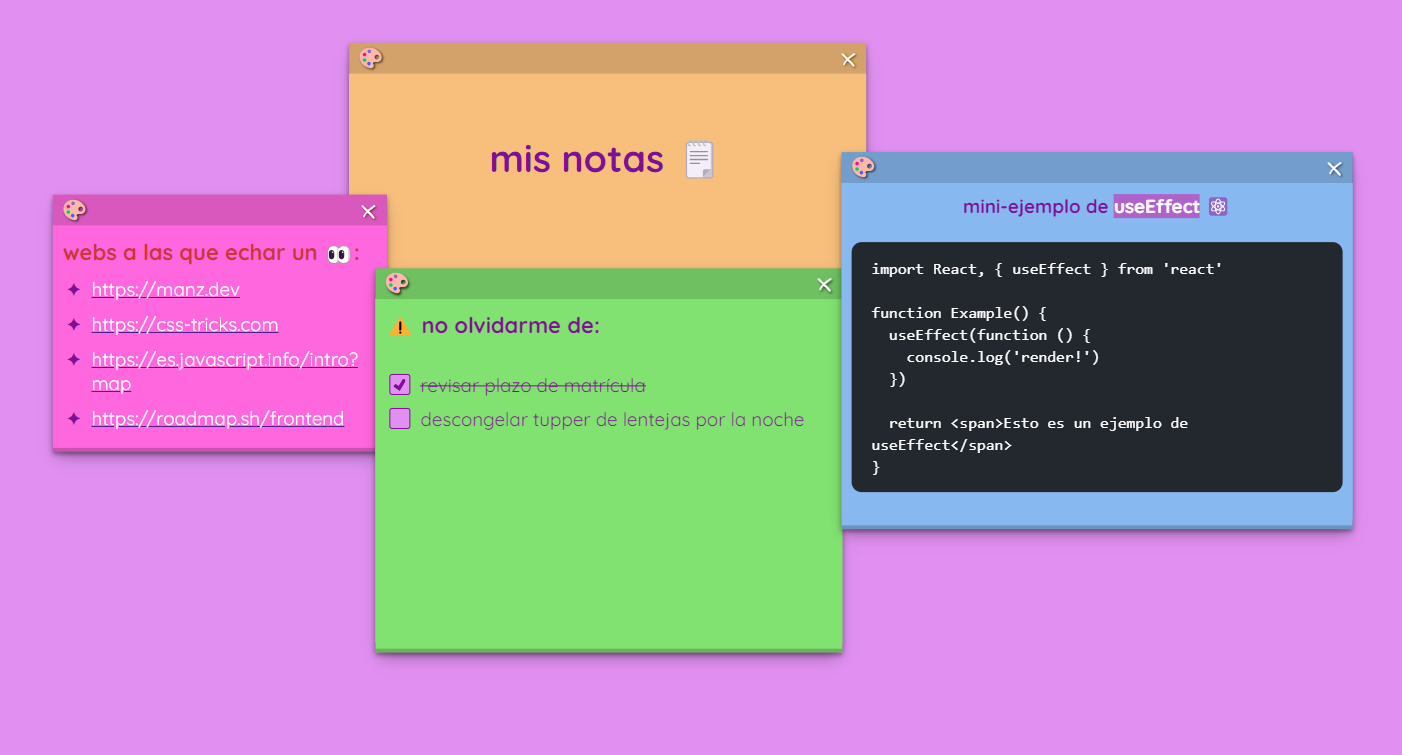
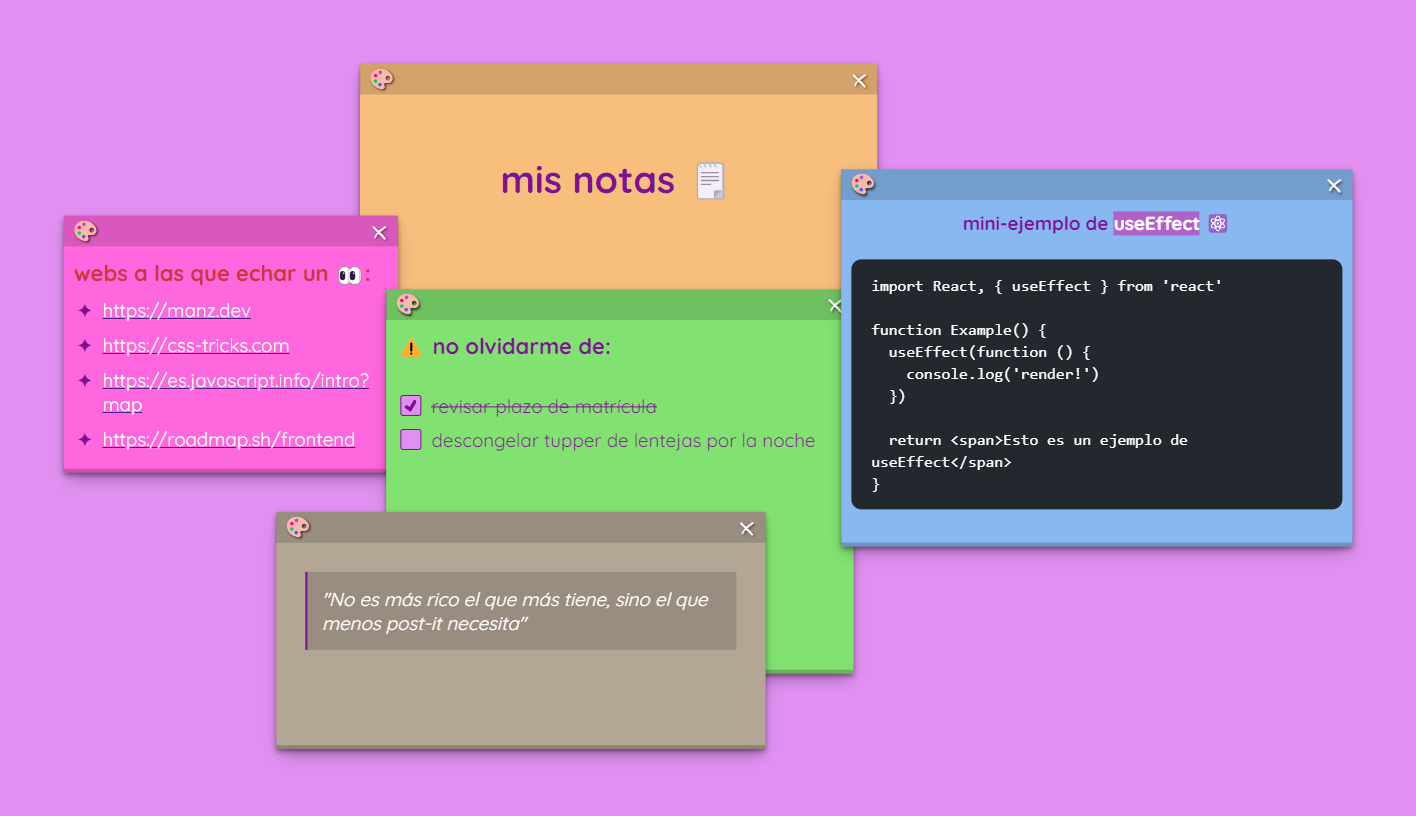
Se retoca el modal y se añade el README.md

Changed region(s): [[0.0307, 0.0305, 0.9815, 0.9444], [0.3374, 0.1828, 0.5214, 0.2437]]

diff --git a/components/TextAreaEditor.jsx b/components/TextAreaEditor.jsx
@@ -3,6 +3,8 @@ import Image from "next/image"
 import { BubbleMenu, useEditor, EditorContent } from "@tiptap/react"
 import { Color } from "@tiptap/extension-color"
 import StarterKit from "@tiptap/starter-kit"
+import Blockquote from "@tiptap/extension-blockquote"
+import BulletList from "@tiptap/extension-bullet-list"
 import Highlight from "@tiptap/extension-highlight"
 import TextStyle from "@tiptap/extension-text-style"
 import TextAlign from "@tiptap/extension-text-align"
@@ -19,15 +21,36 @@ export default function TextAreaEditor ({ notaId, placeholder }) {
   const widthBubbleIcon = 20;
   const heightBubbleIcon = 20;
 
+  const CustomBulletList = BulletList.extend({
+    addKeyboardShortcuts() {
+      return {
+        "Tab": () => {
+          this.editor.chain()
+            .sinkListItem('listItem')
+            .command(({ tr }) => {
+              tr.insertText('  ')
+    
+              return true
+             })
+            .run()
+    
+          return true // <- make sure to return true to prevent the tab from blurring.
+        },
+      }
+    },
+  });
+
   const editor = useEditor({
     extensions: [
       StarterKit,
+      Blockquote,
       TextStyle,
       Color,
       Underline,
       Link,
       Highlight,
       TaskList,
+      CustomBulletList,
       Placeholder.configure({
         placeholder: placeholder,
         opacity: 0.3,

diff --git a/components/TablonNotas.jsx b/components/TablonNotas.jsx
@@ -112,7 +112,10 @@ export default function TablonNotas() {
         </figcaption>
         <p>
           Además reconoce los atajos de teclado propios para enriquecer el estilo del texto (CTRL+B 👉 <strong>fuente en negrita</strong>, CTRL+I 👉
-          <i> fuente en cursiva</i> ...). Y, por último, también puedes estilizar a posteriori. Simplemente selecciona el texto que quieras estilizar y ...
+          <i> fuente en cursiva</i> ...). Para ver todos los atajos de teclado, entra <a href="https://tiptap.dev/api/keyboard-shortcuts" target="_blank">aquí</a>.
+        </p>
+        <p>
+        Por último, también puedes estilizar a posteriori. Simplemente selecciona el texto que quieras estilizar y ...
         </p>
         <Image id="image_demo" src={"/modal/Demo_BubbleMenu.gif"} alt="Demostración de aplicación para enriquecer texto en las notas" width={450} height={360} />
         <figcaption>✨Voilá✨ Te aparecerá un pequeño menú de estilos.</figcaption>

diff --git a/app/localFonts.jsx b/app/localFonts.jsx
@@ -1,6 +1,7 @@
 import localFont from "next/font/local"
 
 export const chakra_petch = localFont({
+  preload: "true",
   src: [
     {
       path: "../public/fonts/Chakra_Petch/ChakraPetch-Light.ttf",
@@ -18,6 +19,7 @@ export const chakra_petch = localFont({
 });
 
 export const indie_flower = localFont({
+  preload: "true",
   src: [
     {
       path: "../public/fonts/Indie_Flower/IndieFlower-Regular.ttf",
@@ -27,6 +29,7 @@ export const indie_flower = localFont({
 });
 
 export const quicksand = localFont({
+  preload: "true",
   src: [
     {
       path: "../public/fonts/Quicksand/Quicksand-VariableFont_wght.ttf",

diff --git a/styles/formatTextRich.css b/styles/formatTextRich.css
@@ -74,6 +74,11 @@ pre code {
   font-size: 0.8rem;
 }
 
+code {
+  background-color: var(--blanco);
+  padding: 0.2rem;
+  border-radius: 4px;
+}
 
 /* Custom CheckBox */
 

diff --git a/README.md b/README.md
@@ -1,34 +1,25 @@
-This is a [Next.js](https://nextjs.org/) project bootstrapped with [`create-next-app`](https://github.com/vercel/next.js/tree/canary/packages/create-next-app).
+# 🗒 Mis notas rápidas
+_Una app para organizar notas rápidas con cierta posibilidad de personalización, y que se conservarán entre sesiones gracias a su almacenamiento local en el navegador web._
 
-## Getting Started
+<img src="public/screenshots/Demo_Notas.png" />
 
-First, run the development server:
+## 📋 Requisitos
+* A través de la tecnología de React, desmenuzar en componentes todos aquellos elementos que conformarán la web.
+* Las notas se podrán arrastrar a lo largo de la ventana, así como modificar ciertos aspectos personalizables como sus colores o sus dimensiones.
+* Se conservarán entre sesiones todo lo contenido en la app (posición de las notas, dimensiones, texto enriquecido...) a través del empleo del <code>localStorage</code>.
+* El editor de texto de las notas reconocerá la sintaxis Markdown con la finalidad de hacer más sencillo y ágil el proceso de formateo de su contenido (a través de la herramienta de desarrollo <strong><a href="https://tiptap.dev" target="_blank">tiptap</a></strong>).
 
-```bash
-npm run dev
-# or
-yarn dev
-# or
-pnpm dev
-```
 
-Open [http://localhost:3000](http://localhost:3000) with your browser to see the result.
+## 🛠 Características a arreglar / mejorar
+* Revisar gestión de la pila de notas con respecto a sus <code>z-Index</code> correspondientes, de manera que a medida que se interactúen con ellas, éstas se vayan situando por encima de las demás sucesivamente. 
+* Revisar la posibilidad de añadir la funcionalidad de adjuntar/arrastrar imágenes al editor de texto.
+* ¿Más opciones de personalización?
 
-You can start editing the page by modifying `app/page.js`. The page auto-updates as you edit the file.
 
-This project uses [`next/font`](https://nextjs.org/docs/basic-features/font-optimization) to automatically optimize and load Inter, a custom Google Font.
-
-## Learn More
-
-To learn more about Next.js, take a look at the following resources:
-
-- [Next.js Documentation](https://nextjs.org/docs) - learn about Next.js features and API.
-- [Learn Next.js](https://nextjs.org/learn) - an interactive Next.js tutorial.
-
-You can check out [the Next.js GitHub repository](https://github.com/vercel/next.js/) - your feedback and contributions are welcome!
-
-## Deploy on Vercel
-
-The easiest way to deploy your Next.js app is to use the [Vercel Platform](https://vercel.com/new?utm_medium=default-template&filter=next.js&utm_source=create-next-app&utm_campaign=create-next-app-readme) from the creators of Next.js.
-
-Check out our [Next.js deployment documentation](https://nextjs.org/docs/deployment) for more details.
+## 📎Lo utilizado
+![HTML5](https://img.shields.io/badge/html5-%23E34F26.svg?style=for-the-badge&logo=html5&logoColor=white)
+![CSS3](https://img.shields.io/badge/css3-%231572B6.svg?style=for-the-badge&logo=css3&logoColor=white)
+![JavaScript](https://img.shields.io/badge/javascript-%23323330.svg?style=for-the-badge&logo=javascript&logoColor=%23F7DF1E)
+![React](https://img.shields.io/badge/react-%2320232a.svg?style=for-the-badge&logo=react&logoColor=%2361DAFB)
+![ChatGPT](https://img.shields.io/badge/chatGPT-74aa9c?style=for-the-badge&logo=openai&logoColor=white)
+![VSC](https://img.shields.io/badge/Visual_Studio_Code-0078D4?style=for-the-badge&logo=visual%20studio%20code&logoColor=white)
